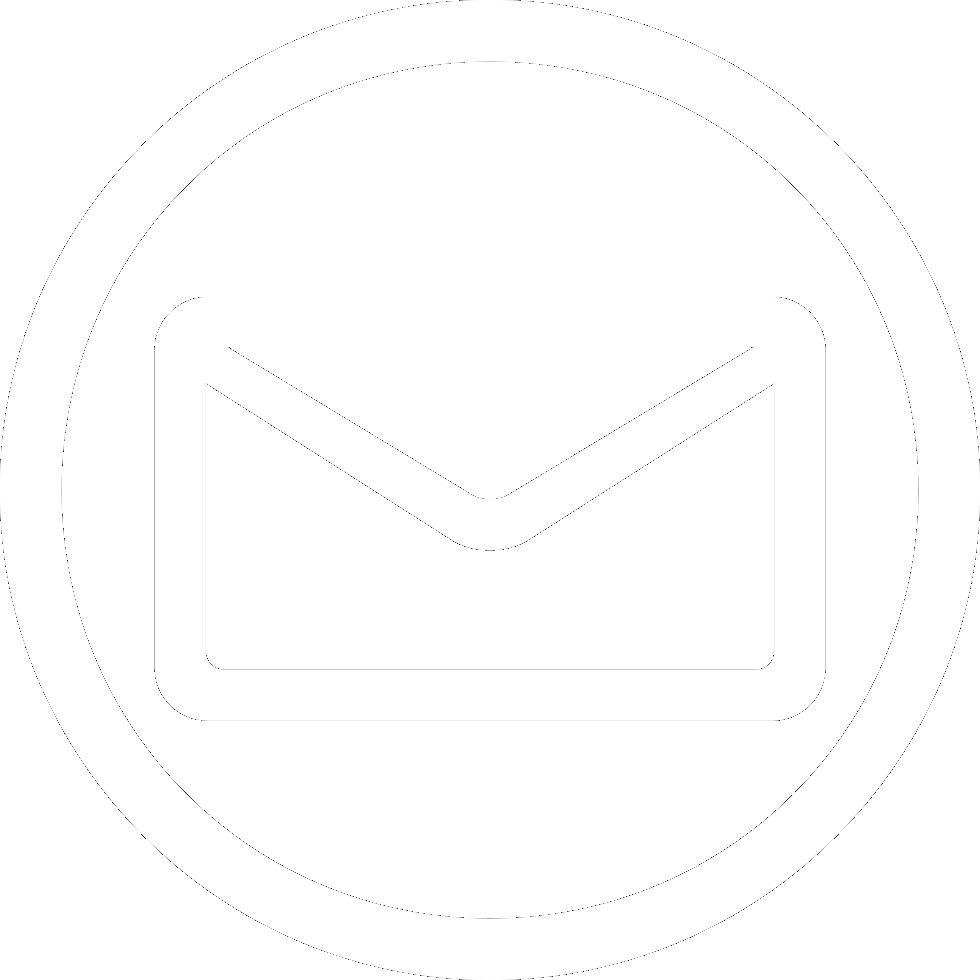
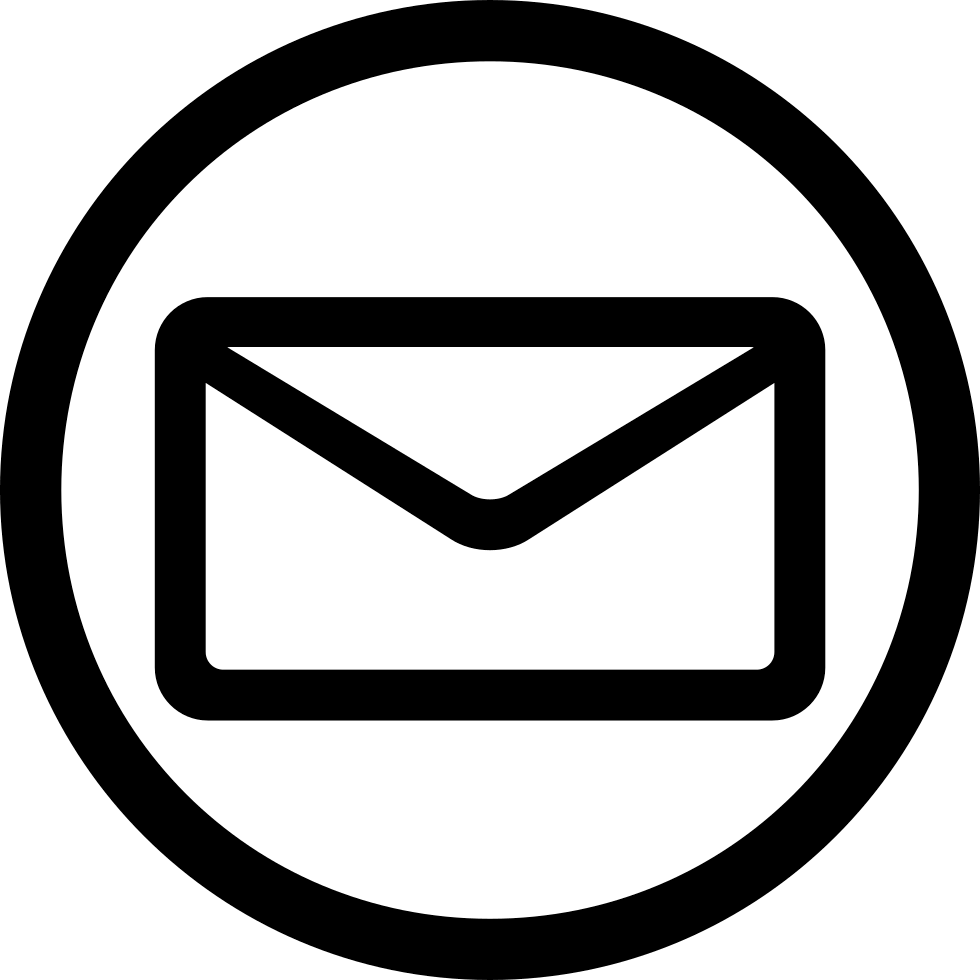
style updates

diff --git a/src/App.js b/src/App.js
@@ -31,17 +31,17 @@ function App() {
   const style = {
     header: {
       textAlign: "center",
-      color: "white",
+      color: "black",
     },
     header2: {
       textAlign: "center",
-      color: "white",
+      color: "black",
     },
     link: {
       fontFamily: "'Bebas Neue', cursive;",
       padding: "15px",
-      width: "20px",
-      color: "white",
+      // width: "40px",
+      color: "black",
       outlineColor: "none",
       backgroundColor: "Transparent",
       marginLeft: "25px",
@@ -51,7 +51,7 @@ function App() {
     firstLink: {
       fontFamily: "'Bebas Neue', cursive;",
       padding: "15px",
-      color: "white",
+      color: "black",
       outlineColor: "none",
       backgroundColor: "Transparent",
       marginTop: "10px",
@@ -59,7 +59,7 @@ function App() {
     },
     link2: {
       fontFamily: "'Bebas Neue', cursive;",
-      color: "white",
+      color: "black",
       outlineColor: "none",
       backgroundColor: "Transparent",
       marginLeft: "10px",
@@ -106,17 +106,15 @@ function App() {
               <h1 style={style.h1}>- Peter John Bishop</h1>
             </Col>
             <Col sm={4} style={style.header2}>
-              <Link to="/about" style={style.firstLink}>
+              <Link to="/about" id="link" style={style.firstLink}>
                 ABOUT
               </Link>
-              <Link to="/work" style={style.link}>
+              <Link to="/work" id="link" style={style.link}>
                 WORK
               </Link>
-              <Link to="/contact" style={style.link}>
+              <Link to="/contact" id="link" style={style.link}>
                 CONNECT
               </Link>
-            </Col>
-            <Col sm={4} style={style.header2}>
               <div>
                 <a href="mailto: pjb.den@gmail.com" style={style.link2}>
                   <img src={email} style={style.icons}></img>
@@ -129,6 +127,9 @@ function App() {
                   720-272-5223
                 </a>
               </div>
+            </Col>
+            <Col sm={4} style={style.header2}>
+             
             </Col>
           </Row>
           <Row style={{ textAlign: "center", marginBottom: "25px" }}>

diff --git a/src/pages/work.js b/src/pages/work.js
@@ -19,6 +19,8 @@ export default function Work() {
       height: "100%", // so that the content will center correctly
       paddingTop: "25px",
       paddingBottom: "25px",
+      backdropFilter: "blur(2px)",
+      backgroundColor: "rgba(0, 0, 0, 0.3)",
       //paddingLeft: "110px", //NEEDS MEDIA QUERY to set this only to set when viewport is small
     },
     img: {
@@ -27,10 +29,10 @@ export default function Work() {
     card: {
       marginRight: "auto",
       marginLeft: "auto",
-      boxShadow: "0 15px 25px rgba(129, 124, 124, 0.2)",
-      borderRadius: "10px",
-      backdropFilter: "blur(2px)",
-      backgroundColor: "rgba(0, 0, 0, 0.3)",
+      //boxShadow: "0 15px 25px rgba(129, 124, 124, 0.2)",
+      //borderRadius: "10px",
+      //backdropFilter: "blur(2px)",
+      backgroundColor: "rgba(0, 0, 0, 0)",
       padding: "10px",
       textAlign: "center",
       width: "18rem",

diff --git a/src/pages/about.js b/src/pages/about.js
@@ -12,12 +12,15 @@ export default function About() {
       paddingRight: "25px",
       justifyContent: "center",
       alignItems: "center",
+      backdropFilter: "blur(2px)",
+      backgroundColor: "rgba(0, 0, 0, 0.3)",
     },
     li: {
       textAlign: "left",
     },
     img: {
       borderRadius: "50%",
+      marginTop: "20px",
       marginBottom: "50px",
       marginLeft: "auto",
       marginRight: "auto",
@@ -27,9 +30,9 @@ export default function About() {
     },
     content: {
       padding: "25px",
-      borderRadius: "10px",
-      backdropFilter: "blur(2px)",
-      background: "rgba(0, 0, 0, 0.3)",
+      // borderRadius: "10px",
+      // backdropFilter: "blur(2px)",
+      // background: "rgba(0, 0, 0, 0.3)",
     },
     resume: {
       color: "white",

diff --git a/src/App.css b/src/App.css
@@ -42,3 +42,22 @@
   color: #61dafb;
 }
 
+#link {
+  position: relative;
+  display: inline-block;
+  font-weight: 800;
+  color: black;
+  overflow: hidden;
+  background: linear-gradient(to right, white 50%, black 50%, black);
+  background-clip: text;
+  -webkit-background-clip: text;
+  -webkit-text-fill-color: transparent;
+  background-size: 200% 100%;
+  background-position: 100%;
+  transition: background-position 275ms ease;
+  text-decoration: none;
+  white-space: nowrap;
+}
+#link:hover {
+  background-position: 0 100%;
+}

diff --git a/src/pages/contact.js b/src/pages/contact.js
@@ -11,6 +11,8 @@ export default function Contact() {
       color: "white",
       paddingTop: "25px",
       paddingBottom: "25px",
+      backdropFilter: "blur(2px)",
+      backgroundColor: "rgba(0, 0, 0, 0.3)",
     },
     img: {
       height: "150px",
